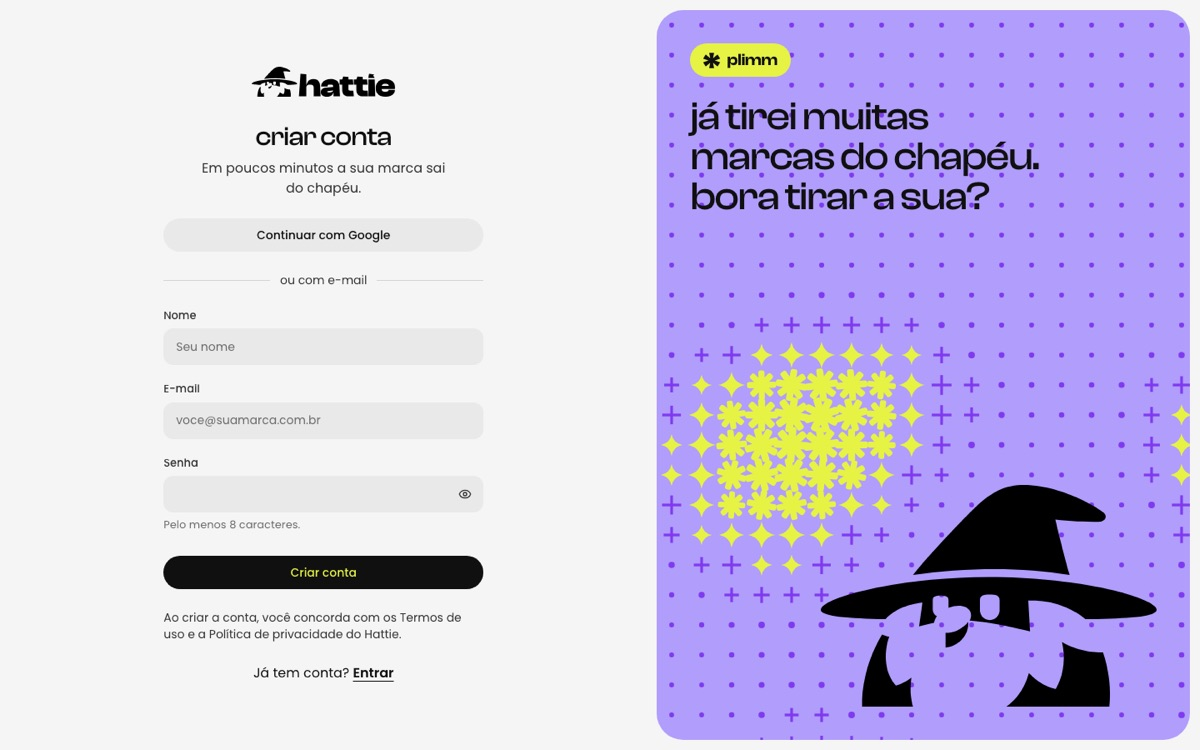
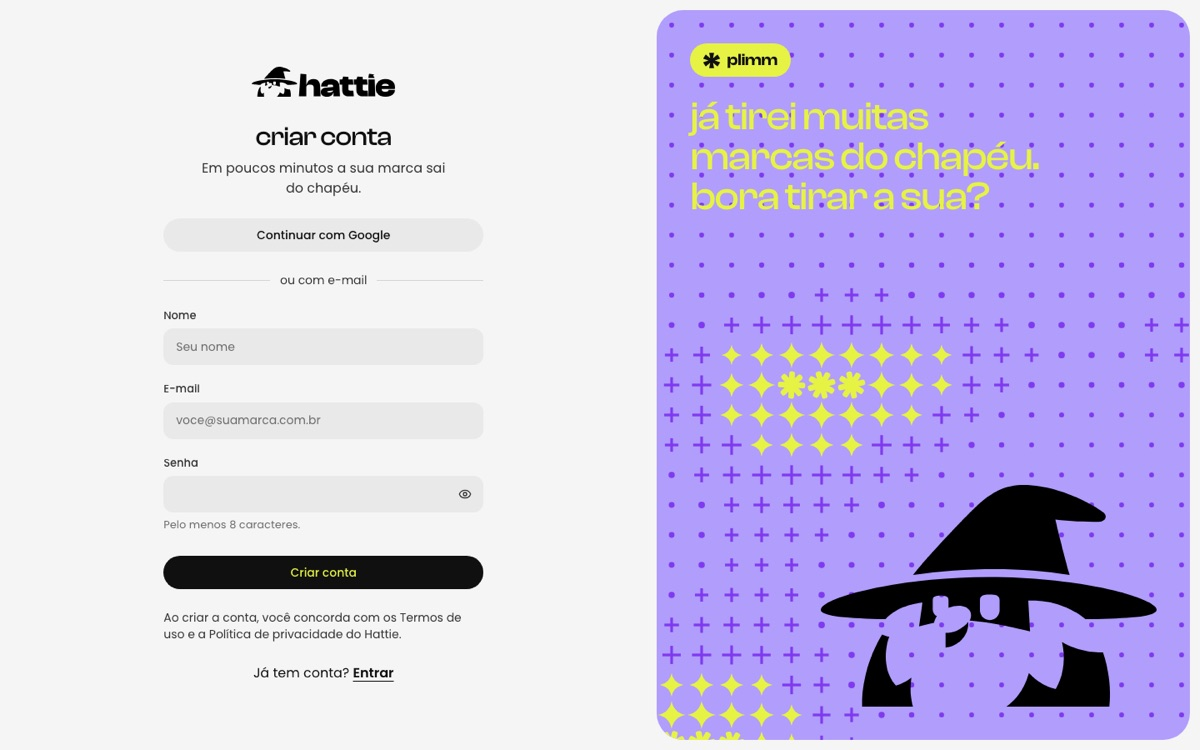
Jornada com a etapa de escolhas e capturas atualizadas
O mapa de telas e o fluxograma ganham o passo de escolher cores, letras e logo.
Capturas novas de escolhas, olha como ficou, criar conta e entrar.

diff --git a/plataforma/app/src/components/jornada/Jornada.tsx b/plataforma/app/src/components/jornada/Jornada.tsx
@@ -48,19 +48,20 @@ const NOS: No[] = [
   { id: "importar", titulo: "Importar uma marca", texto: "Quem já tem marca manda logo, manual, site e redes. O Hattie lê tudo e organiza no cérebro.", coluna: 1, linha: "alternativa", acoes: ["Soltar arquivos na área grande", "O Hattie aponta o que falta"] },
   { id: "criacao", titulo: "Conversa de criação", texto: "O Hattie pergunta só o que falta, com o plano dos pontos ao lado. A Bia responde, manda material ou pula.", imagem: "criacao", href: `${M}/hattie/criacao`, coluna: 2, linha: "principal", acoes: ["Pular uma pergunta: o Hattie decide", "Voltar a um ponto pelo plano", "Clicar em Criar minha marca"] },
   { id: "criando", titulo: "O Hattie cria a marca", texto: "Lê tudo, pesquisa o mercado, estuda concorrentes e monta estratégia, nome, voz e visual.", imagem: "criando", href: `${M}/criando`, coluna: 3, linha: "principal", acoes: ["Leva alguns segundos", "Cada etapa aparece na lista"] },
-  { id: "pronta", titulo: "Olha como ficou", texto: "O primeiro impacto da marca inteira, antes de entrar no detalhe de cada ponto.", imagem: "pronta", href: `${M}/pronta`, coluna: 4, linha: "principal", acoes: ["Ver logo, mockups, cores e peças", "Pedir ajuste ao Hattie", "Começar a validação"] },
-  { id: "cerebro", titulo: "Visão geral do cérebro", texto: "Todas as decisões da marca num lugar, com o que já foi aprovado e o que falta.", imagem: "cerebro-visao", href: `${M}/cerebro`, coluna: 4, linha: "alternativa", acoes: ["Abrir qualquer ponto", "Ver o progresso por grupo"] },
-  { id: "validar", titulo: "Aprovar ponto por ponto", texto: "Cada ponto mostra a proposta e o porquê. A Bia decide o que fazer com ele.", imagem: "validar", href: `${M}/cerebro/nome`, coluna: 5, linha: "principal", acoes: ["Aprovar e seguir para o próximo", "Editar com o Hattie", "Contratar um parceiro para o ponto"] },
-  { id: "editar", titulo: "Editar com o Hattie", texto: "Um painel abre ao lado do ponto. A Bia conta o que quer mudar e o Hattie propõe outra versão.", coluna: 5, linha: "alternativa", acoes: ["Pedir em texto livre", "Comparar antes de aprovar"] },
-  { id: "parceiros", titulo: "Contratar um parceiro", texto: "O pedido chega escrito, com o ponto da marca, e os parceiros certos aparecem primeiro.", imagem: "parceiros", href: `${M}/parceiros`, coluna: 5, linha: "parceiro", acoes: ["Filtrar por especialidade e preço", "Escolher o que o parceiro vê da marca"] },
-  { id: "perfil", titulo: "Perfil do parceiro", texto: "Trabalhos, pacotes com preço e prazo, e o que outras marcas acharam.", imagem: "perfil", href: `${M}/parceiros/perfil/ana-prado`, coluna: 6, linha: "parceiro", acoes: ["Ver pacotes e prazos", "Mandar mensagem ou pedir orçamento"] },
-  { id: "mensagens", titulo: "Conversa, proposta e orçamento", texto: "A Bia pergunta, o parceiro tira dúvidas e manda a proposta com valor e prazo.", imagem: "mensagens", href: `${M}/parceiros/mensagens/ensaio-origem`, coluna: 7, linha: "parceiro", acoes: ["Aprovar a proposta", "Pedir ajuste no valor ou no prazo", "Procurar outro parceiro"] },
-  { id: "quadro", titulo: "Acompanhar no quadro", texto: "Cada trabalho anda por pedido, proposta, em andamento, revisão e entregue.", imagem: "quadro", href: `${M}/parceiros/quadro`, coluna: 8, linha: "parceiro", acoes: ["Pedir revisão da entrega", "Aprovar e guardar a entrega"] },
-  { id: "inicio", titulo: "Início da marca", texto: "\"O que vamos criar hoje?\", com projetos recentes e modelos que já preenchem o pedido.", imagem: "inicio", href: M, coluna: 6, linha: "principal", acoes: ["Pedir algo direto no campo", "Abrir um projeto recente", "Usar um modelo pronto"] },
-  { id: "hattie", titulo: "Conversa com o Hattie", texto: "Uma legenda, uma ideia de post ou uma opinião, sempre com o cérebro da marca.", imagem: "hattie", href: `${M}/hattie/nova`, coluna: 6, linha: "alternativa", acoes: ["Perguntar qualquer coisa da marca", "Voltar para o início"] },
-  { id: "projetos", titulo: "Projetos", texto: "Cada entrega num projeto: lançamento, campanha, catálogo. Com filtros, grade ou lista.", imagem: "projetos", href: `${M}/projetos`, coluna: 7, linha: "principal", acoes: ["Criar um projeto com o primeiro pedido", "Fixar, concluir ou arquivar"] },
-  { id: "projeto", titulo: "Criar no projeto", texto: "Canvas, grade e thread. A Bia pede e o Hattie cria imagens e peças ali mesmo.", imagem: "projeto", href: `${M}/projetos/pequi`, coluna: 8, linha: "principal", acoes: ["Pedir ajuste ou gerar de novo", "Ajustar a imagem no visor", "Organizar em páginas e pastas"] },
-  { id: "biblioteca", titulo: "Biblioteca", texto: "Tudo o que a marca criou, enviou ou recebeu de parceiros, com busca por frase.", imagem: "biblioteca", href: `${M}/biblioteca`, coluna: 9, linha: "principal", acoes: ["Procurar como se fala", "Baixar, compartilhar ou mover", "Usar num projeto"] },
+  { id: "escolhas", titulo: "Escolher cores, letras e logo", texto: "Três opções de cada, com a aposta do Hattie já marcada. Cada passo mostra as opções com o que veio antes.", imagem: "escolhas", href: `${M}/escolhas`, coluna: 4, linha: "principal", acoes: ["Ficar com a aposta e avançar", "Comparar as três opções", "Voltar a um passo anterior"] },
+  { id: "pronta", titulo: "Olha como ficou", texto: "O primeiro impacto da marca inteira, antes de entrar no detalhe de cada ponto.", imagem: "pronta", href: `${M}/pronta`, coluna: 5, linha: "principal", acoes: ["Ver logo, mockups, cores e peças", "Pedir ajuste ao Hattie", "Começar a validação"] },
+  { id: "cerebro", titulo: "Visão geral do cérebro", texto: "Todas as decisões da marca num lugar, com o que já foi aprovado e o que falta.", imagem: "cerebro-visao", href: `${M}/cerebro`, coluna: 5, linha: "alternativa", acoes: ["Abrir qualquer ponto", "Ver o progresso por grupo"] },
+  { id: "validar", titulo: "Aprovar ponto por ponto", texto: "Cada ponto mostra a proposta e o porquê. A Bia decide o que fazer com ele.", imagem: "validar", href: `${M}/cerebro/nome`, coluna: 6, linha: "principal", acoes: ["Aprovar e seguir para o próximo", "Editar com o Hattie", "Contratar um parceiro para o ponto"] },
+  { id: "editar", titulo: "Editar com o Hattie", texto: "Um painel abre ao lado do ponto. A Bia conta o que quer mudar e o Hattie propõe outra versão.", coluna: 6, linha: "alternativa", acoes: ["Pedir em texto livre", "Comparar antes de aprovar"] },
+  { id: "parceiros", titulo: "Contratar um parceiro", texto: "O pedido chega escrito, com o ponto da marca, e os parceiros certos aparecem primeiro.", imagem: "parceiros", href: `${M}/parceiros`, coluna: 6, linha: "parceiro", acoes: ["Filtrar por especialidade e preço", "Escolher o que o parceiro vê da marca"] },
+  { id: "perfil", titulo: "Perfil do parceiro", texto: "Trabalhos, pacotes com preço e prazo, e o que outras marcas acharam.", imagem: "perfil", href: `${M}/parceiros/perfil/ana-prado`, coluna: 7, linha: "parceiro", acoes: ["Ver pacotes e prazos", "Mandar mensagem ou pedir orçamento"] },
+  { id: "mensagens", titulo: "Conversa, proposta e orçamento", texto: "A Bia pergunta, o parceiro tira dúvidas e manda a proposta com valor e prazo.", imagem: "mensagens", href: `${M}/parceiros/mensagens/ensaio-origem`, coluna: 8, linha: "parceiro", acoes: ["Aprovar a proposta", "Pedir ajuste no valor ou no prazo", "Procurar outro parceiro"] },
+  { id: "quadro", titulo: "Acompanhar no quadro", texto: "Cada trabalho anda por pedido, proposta, em andamento, revisão e entregue.", imagem: "quadro", href: `${M}/parceiros/quadro`, coluna: 9, linha: "parceiro", acoes: ["Pedir revisão da entrega", "Aprovar e guardar a entrega"] },
+  { id: "inicio", titulo: "Início da marca", texto: "\"O que vamos criar hoje?\", com projetos recentes e modelos que já preenchem o pedido.", imagem: "inicio", href: M, coluna: 7, linha: "principal", acoes: ["Pedir algo direto no campo", "Abrir um projeto recente", "Usar um modelo pronto"] },
+  { id: "hattie", titulo: "Conversa com o Hattie", texto: "Uma legenda, uma ideia de post ou uma opinião, sempre com o cérebro da marca.", imagem: "hattie", href: `${M}/hattie/nova`, coluna: 7, linha: "alternativa", acoes: ["Perguntar qualquer coisa da marca", "Voltar para o início"] },
+  { id: "projetos", titulo: "Projetos", texto: "Cada entrega num projeto: lançamento, campanha, catálogo. Com filtros, grade ou lista.", imagem: "projetos", href: `${M}/projetos`, coluna: 8, linha: "principal", acoes: ["Criar um projeto com o primeiro pedido", "Fixar, concluir ou arquivar"] },
+  { id: "projeto", titulo: "Criar no projeto", texto: "Canvas, grade e thread. A Bia pede e o Hattie cria imagens e peças ali mesmo.", imagem: "projeto", href: `${M}/projetos/pequi`, coluna: 9, linha: "principal", acoes: ["Pedir ajuste ou gerar de novo", "Ajustar a imagem no visor", "Organizar em páginas e pastas"] },
+  { id: "biblioteca", titulo: "Biblioteca", texto: "Tudo o que a marca criou, enviou ou recebeu de parceiros, com busca por frase.", imagem: "biblioteca", href: `${M}/biblioteca`, coluna: 10, linha: "principal", acoes: ["Procurar como se fala", "Baixar, compartilhar ou mover", "Usar num projeto"] },
 ]
 
 const ARESTAS: Aresta[] = [
@@ -71,7 +72,9 @@ const ARESTAS: Aresta[] = [
   { de: "importar", para: "criando", saida: "direita", entrada: "topo", tipo: "alternativo", rotulo: "o Hattie lê os materiais" },
   { de: "criacao", para: "criacao", saida: "topo", entrada: "topo", tipo: "principal", rotulo: "responde ou pula", desvio: 44, trecho: 1 },
   { de: "criacao", para: "criando", saida: "direita", entrada: "esquerda", tipo: "principal", rotulo: "plimm" },
-  { de: "criando", para: "pronta", saida: "direita", entrada: "esquerda", tipo: "principal" },
+  { de: "criando", para: "escolhas", saida: "direita", entrada: "esquerda", tipo: "principal" },
+  { de: "escolhas", para: "escolhas", saida: "topo", entrada: "topo", tipo: "principal", rotulo: "compara e escolhe", desvio: 44, trecho: 1 },
+  { de: "escolhas", para: "pronta", saida: "direita", entrada: "esquerda", tipo: "principal", rotulo: "plimm" },
   { de: "pronta", para: "criando", saida: "base", entrada: "base", tipo: "alternativo", rotulo: "pede ajuste ao Hattie", desvio: 40, trecho: 1 },
   { de: "pronta", para: "validar", saida: "direita", entrada: "esquerda", tipo: "principal", rotulo: "começar a validação" },
   { de: "pronta", para: "cerebro", saida: "topo", entrada: "base", tipo: "alternativo", rotulo: "ver tudo", duplo: true },
@@ -95,9 +98,9 @@ const ARESTAS: Aresta[] = [
 const ETAPAS = [
   { numero: 1, titulo: "chegar", de: 0, ate: 0 },
   { numero: 2, titulo: "começar", de: 1, ate: 1 },
-  { numero: 3, titulo: "criar a marca", de: 2, ate: 4 },
-  { numero: 4, titulo: "aprovar", de: 5, ate: 5 },
-  { numero: 5, titulo: "usar no dia a dia", de: 6, ate: 9 },
+  { numero: 3, titulo: "criar a marca", de: 2, ate: 5 },
+  { numero: 4, titulo: "aprovar", de: 6, ate: 6 },
+  { numero: 5, titulo: "usar no dia a dia", de: 7, ate: 10 },
 ]
 
 /* ---------- Geometria do quadro ---------- */
@@ -109,7 +112,7 @@ const ALTURA_CARD = IMAGEM + 176
 const MARGEM = 48
 const TOPO = 120 // espaço das etapas e dos laços de cima
 const Y: Record<Linha, number> = { alternativa: TOPO, principal: TOPO + ALTURA_CARD + 150, parceiro: TOPO + 2 * (ALTURA_CARD + 150) + 30 }
-const LARGURA = MARGEM * 2 + COLUNA * 9 + CARD
+const LARGURA = MARGEM * 2 + COLUNA * 10 + CARD
 const ALTURA = Y.parceiro + ALTURA_CARD + 110
 
 const xDe = (no: No) => MARGEM + no.coluna * COLUNA

diff --git a/plataforma/app/src/components/jornada/Fluxograma.tsx b/plataforma/app/src/components/jornada/Fluxograma.tsx
@@ -34,11 +34,12 @@ const PARTES: Parte[] = [
       { id: "falta", coluna: 7, raia: "hattie", forma: "decisao", texto: "Falta algum ponto?" },
       { id: "le", coluna: 7, raia: "hattie", sub: 1, forma: "passo", texto: "Lê os materiais e organiza no cérebro", nota: "e aponta o que falta" },
       { id: "plimm", coluna: 8, raia: "bia", forma: "passo", texto: "Clica em Criar minha marca", nota: "o botão plimm" },
-      { id: "cria", coluna: 9, raia: "hattie", forma: "passo", texto: "Pesquisa e cria a marca", nota: "mercado, concorrentes, estratégia, nome, voz e visual" },
-      { id: "ve", coluna: 10, raia: "bia", forma: "passo", texto: "Vê o todo em Olha como ficou", nota: "logo, mockups, cores e peças" },
-      { id: "gostou", coluna: 11, raia: "bia", forma: "decisao", texto: "Gostou do todo?" },
-      { id: "refaz", coluna: 11, raia: "hattie", forma: "passo", texto: "Ajusta o que ela pediu", nota: "e mostra de novo" },
-      { id: "segue", coluna: 12, raia: "bia", forma: "conector", texto: "1", nota: "aprovar" },
+      { id: "cria", coluna: 9, raia: "hattie", forma: "passo", texto: "Pesquisa e cria a marca", nota: "e separa três opções de cores, letras e logo" },
+      { id: "escolhe", coluna: 10, raia: "bia", forma: "passo", texto: "Escolhe cores, letras e logo", nota: "a aposta do Hattie já vem marcada" },
+      { id: "ve", coluna: 11, raia: "bia", forma: "passo", texto: "Vê o todo em Olha como ficou", nota: "com as escolhas dela" },
+      { id: "gostou", coluna: 12, raia: "bia", forma: "decisao", texto: "Gostou do todo?" },
+      { id: "refaz", coluna: 12, raia: "hattie", forma: "passo", texto: "Ajusta o que ela pediu", nota: "e mostra de novo" },
+      { id: "segue", coluna: 13, raia: "bia", forma: "conector", texto: "1", nota: "aprovar" },
     ],
     setas: [
       { de: "chega", para: "conta", saida: "direita", entrada: "esquerda" },
@@ -55,7 +56,8 @@ const PARTES: Parte[] = [
       { de: "materiais", para: "le", saida: "base", entrada: "esquerda" },
       { de: "le", para: "cria", saida: "direita", entrada: "base" },
       { de: "plimm", para: "cria", saida: "direita", entrada: "topo" },
-      { de: "cria", para: "ve", saida: "direita", entrada: "base" },
+      { de: "cria", para: "escolhe", saida: "direita", entrada: "base" },
+      { de: "escolhe", para: "ve", saida: "direita", entrada: "esquerda" },
       { de: "ve", para: "gostou", saida: "direita", entrada: "esquerda" },
       { de: "gostou", para: "refaz", saida: "base", entrada: "topo", rotulo: "não, pede ajuste" },
       { de: "refaz", para: "ve", saida: "esquerda", entrada: "base" },
